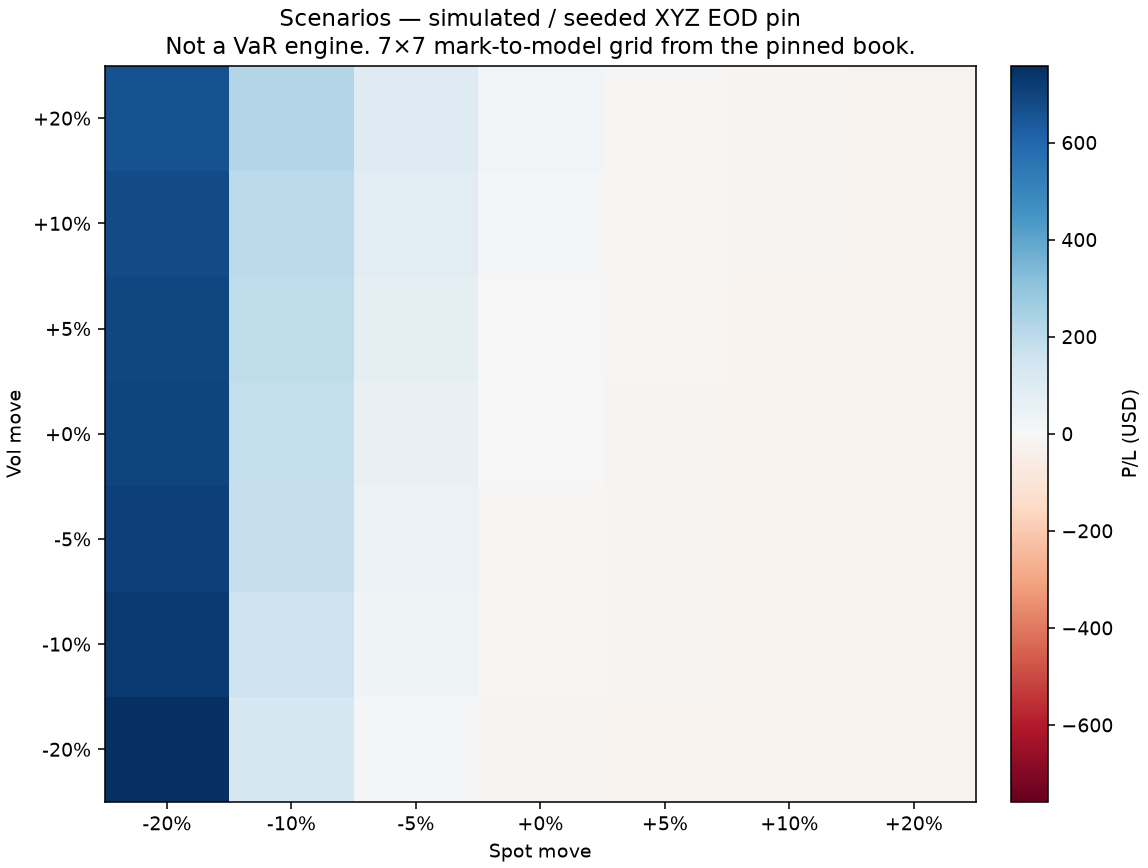
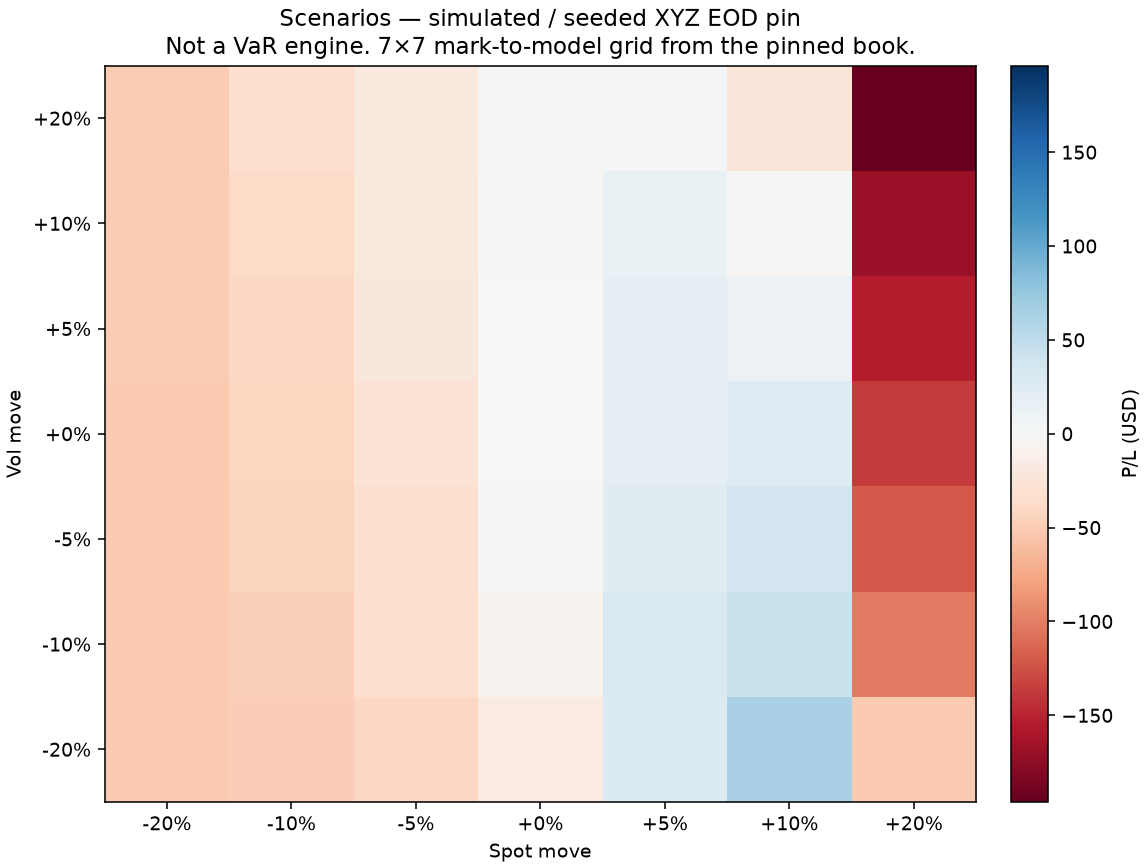
Show a recovering drawdown in the demo and add a glossary
The seeded demo's NLV path never recovered from its worst drawdown, so
every TWR row showed ttr_days as "--", which read as broken. The seed
moves to 9 so the path recovers within each window -- the published
table now shows real ttr_days (63 / 21 / 63) alongside the distinct
all/ytd/trailing-12 returns. Seeded numbers are re-pinned in the CLI
test.

A Glossary section defines the abbreviations and domain terms (NLV,
TWR, max_dd, ttr_days, pin, snapshot_id, instrument_id, DQ, recon, BS,
CRR, IV, Greeks) so no column or code reads as opaque; the TWR note
explains that a "--" ttr_days means unrecovered-in-window, not an error.

diff --git a/tests/test_cli_twr.py b/tests/test_cli_twr.py
@@ -36,10 +36,15 @@ def test_twr_cli_exits_zero_on_demo(tmp_path: Path) -> None:
     all_row = next(line for line in lines if line.startswith("all"))
     ytd_row = next(line for line in lines if line.startswith("ytd"))
     trailing_row = next(line for line in lines if line.startswith("trailing-12"))
-    # The demo spans late 2023 into mid-2025, so the three windows produce distinct TWR.
-    assert "-0.44%" in all_row and "-0.72%" in all_row
-    assert "-0.11%" in ytd_row
-    assert "-0.58%" in trailing_row
+    # The demo spans late 2023 into mid-2025, so the three windows produce distinct
+    # TWR, and each recovers from its worst drawdown within the window (ttr_days set).
+    assert "0.48%" in all_row and "-0.28%" in all_row and all_row.rstrip().endswith("63")
+    assert "0.13%" in ytd_row and "-0.19%" in ytd_row and ytd_row.rstrip().endswith("21")
+    assert (
+        "0.25%" in trailing_row
+        and "-0.28%" in trailing_row
+        and trailing_row.rstrip().endswith("63")
+    )
     assert len({all_row, ytd_row, trailing_row}) == 3
 
 

diff --git a/README.md b/README.md
@@ -39,18 +39,18 @@ uv sync --extra web
 uv run optledger web --data data
 ```
 
-`demo-build` is idempotent on `fixtures/demo.json` (seed 72, ticker `XYZ`). `dq` exits 0 on that demo and 1 on `fixtures/broken_join.json` (after writing it to Parquet). `ledger-recon` exits 0 on the demo and on `fixtures/ledger_expire_worthless.json` / `fixtures/ledger_assignment.json`, and 1 on `fixtures/ledger_qty_break.json`. Output under `data/` is gitignored. Snapshot families, pins, ledger events, and recon are in [Data contract](#data-contract).
+`demo-build` is idempotent on `fixtures/demo.json` (seed 9, ticker `XYZ`). `dq` exits 0 on that demo and 1 on `fixtures/broken_join.json` (after writing it to Parquet). `ledger-recon` exits 0 on the demo and on `fixtures/ledger_expire_worthless.json` / `fixtures/ledger_assignment.json`, and 1 on `fixtures/ledger_qty_break.json`. Output under `data/` is gitignored. Snapshot families, pins, ledger events, and recon are in [Data contract](#data-contract).
 
-TWR is flow-adjusted from EOD NLV pins and `cash_deposit` events only (fees and fill premiums already sit in marked NLV). Windows are `all`, `ytd`, and `trailing-12` (365 calendar days). **YTD is the TWR of pins whose `as_of` falls in the last pin's calendar year**, not a January-1 NAV interpolation. The demo is pinned weekly from late 2023 into mid-2025, so the three windows differ: `all` covers every pin, `ytd` the last pin's calendar year, and `trailing-12` the trailing 365 days. Every demo number is **simulated / seeded** and is not live performance.
+TWR is flow-adjusted from EOD NLV pins and `cash_deposit` events only (fees and fill premiums already sit in marked NLV). Windows are `all`, `ytd`, and `trailing-12` (365 calendar days). **YTD is the TWR of pins whose `as_of` falls in the last pin's calendar year**, not a January-1 NAV interpolation. The demo is pinned weekly from late 2023 into mid-2025, so the three windows differ: `all` covers every pin, `ytd` the last pin's calendar year, and `trailing-12` the trailing 365 days. `max_dd` is the worst peak-to-trough drop of the TWR index and `ttr_days` the calendar days to recover from it (`—` = not recovered within the window); all terms are defined in the [Glossary](#glossary). Every demo number is **simulated / seeded** and is not live performance.
 
-Seeded `optledger twr --data data` after `demo-build` (seed 72):
+Seeded `optledger twr --data data` after `demo-build` (seed 9):
 
 ```
 simulated / seeded
 window               twr     max_dd   ttr_days
-all               -0.44%     -0.72%          —
-ytd               -0.11%     -0.11%          —
-trailing-12       -0.58%     -0.58%          —
+all                0.48%     -0.28%         63
+ytd                0.13%     -0.19%         21
+trailing-12        0.25%     -0.28%         63
 ```
 
 Optional extras:
@@ -145,6 +145,25 @@ These seams exist so a later slice can plug in without rewriting DQ or recon. **
 
 - **Different pricer:** `reprice_book` expects a price/Greeks result per lot. A later adapter (QuantLib, a custom model) would implement that shape and be selected at reprice time. Snapshot families, pins, and ledger recon stay the same.
 - **Another asset class:** `instrument_id` is already an opaque key. Ledger rows do not store call/put; those live on `position_snapshot`. Expire-worthless and assignment are the options-specific events. An equity or futures plugin would add its own fields and event kinds — do not add that plugin now.
+
+## Glossary
+
+| Term | Meaning |
+|------|---------|
+| **NLV** | Net liquidation value — account equity (cash plus marked positions) at a pin. |
+| **TWR** | Time-weighted return — the flow-adjusted geometric return of EOD NLV between deposits (not simple P/L). |
+| **max_dd** | Maximum drawdown — the worst peak-to-trough drop of the TWR index within the window. |
+| **ttr_days** | Time-to-recovery — calendar days from the `max_dd` trough back to the peak it fell from. `—` means the index did not recover to that peak before the window ended (a result, not an error). |
+| **pin** | A pinned as-of timestamp (`open` 09:30 or `eod` 16:00) at which the book is snapshotted. |
+| **snapshot_id** | `{YYYY-MM-DD}-{pin_kind}` — the join key across the three Parquet families. |
+| **instrument_id** | Opaque per-leg key (e.g. `XYZ-20250920-C-100`) — the qty-recon join key. |
+| **DQ** | Data quality — fail-closed pin / join / schema / value checks (`optledger dq`). |
+| **recon** | Reconciliation — ledger events checked against snapshot pins; reports `qty_break` / `cash_break` / `nlv_break` (`optledger ledger-recon`). |
+| **BS / BSM** | Black–Scholes–Merton — the European option model used for European lots. |
+| **CRR** | Cox–Ross–Rubinstein — the American binomial-tree model used for American lots. |
+| **IV** | Implied volatility — the per-leg volatility input. |
+| **Greeks** | delta, gamma, theta, vega — price sensitivities. Theta is calendar-day; vega is per +1 vol-point. |
+| **fill / expire_worthless / assignment / cash_deposit / fee** | Ledger event kinds. |
 
 ## Limitations
 

diff --git a/CHANGELOG.md b/CHANGELOG.md
@@ -20,6 +20,8 @@ The European BS cross-check against vollib (to 1e-8) used to skip on every CI ru
 
 The seeded demo is a multi-leg book (short vertical plus a long call butterfly) pinned weekly from late 2023 into mid-2025, so the `all` / `ytd` / `trailing-12` TWR windows produce distinct values and the Streamlit screenshots reflect a book reconciled across many pins rather than a single opening mark. Lifecycle events (expire, assignment) stay out — that is Phase 2.
 
+The demo's seed moved to 9 so its seeded NLV path recovers from its worst drawdown within each window — the published TWR table now shows real `ttr_days` (63 / 21 / 63) rather than unrecovered `—`. A Glossary section now defines the abbreviations (NLV, TWR, max_dd, ttr_days, pin, snapshot_id, instrument_id, DQ, recon, BS, CRR, IV, Greeks) so no column or code reads as opaque.
+
 ## 0.1.0 — 2026-08-13
 
 Shipped P0–P7 as a narrow book-operations stack, then set the GitHub repo public.
